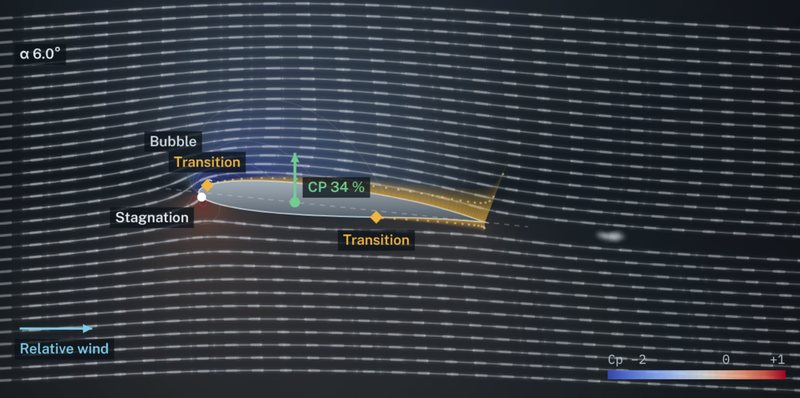
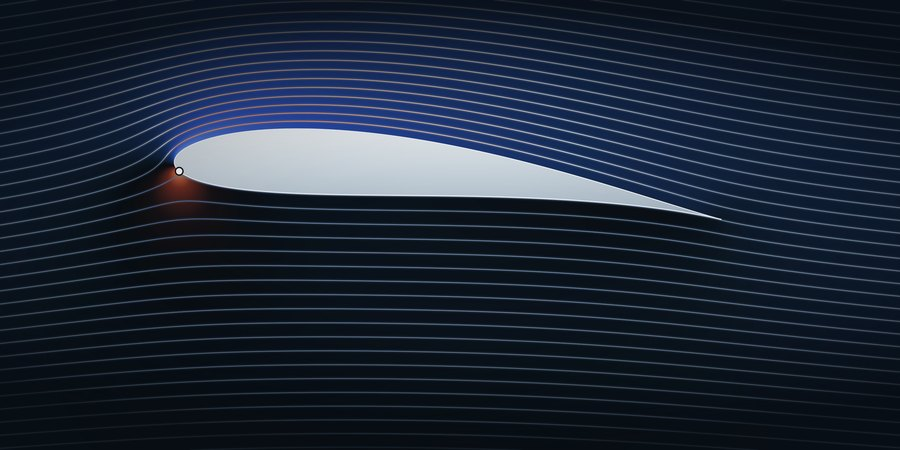
Home hero: high-resolution airfoil render (exact potential flow, RK4 streamlines, Cp field)
Claude-Session: https://claude.ai/code/session_01S9gHm57EQxZjGJ4cCC3jsu

diff --git a/index.html b/index.html
@@ -48,7 +48,7 @@
 .stage{margin:0;position:relative;min-width:0;aspect-ratio:640/680;padding:0}
 .stage::before{content:"";position:absolute;inset:-6% -8% -4% -6%;background:radial-gradient(60% 55% at 62% 40%,rgba(127,160,190,.22),transparent 70%),radial-gradient(40% 40% at 20% 70%,rgba(154,30,104,.07),transparent 70%);pointer-events:none;z-index:0}
 .stage .sc{position:absolute;display:block;border-radius:12px;overflow:hidden;text-decoration:none;color:inherit;box-shadow:0 30px 60px -18px rgba(19,32,42,.32),0 12px 24px -12px rgba(19,32,42,.18),0 0 0 1px rgba(19,32,42,.06);will-change:transform;transition:box-shadow .3s ease}
-.stage .sc-wt{right:0;top:0;width:94%;aspect-ratio:1490/742;background:#14191E;z-index:1}
+.stage .sc-wt{right:0;top:0;width:94%;aspect-ratio:2/1;background:#14191E;z-index:1}
 .stage .sc-wt img{display:block;width:100%;height:100%;object-fit:cover}
 .stage .sc-bp{left:0;top:40%;width:32%;aspect-ratio:236/334;z-index:2;background:#fff;border-radius:6px;rotate:-4deg}
 .stage .sc-bp svg{display:block;width:100%;height:100%}
@@ -265,8 +265,8 @@
     </div>
     <figure class="stage" id="stage">
       <a class="sc sc-wt pg" data-d="8" href="tunnel.html#sec2d" aria-label="Airfoil lab: smoke lines, pressure field and boundary layer at 6 degrees">
-        <img src="media/hero-airfoil.jpg" srcset="media/hero-airfoil-800.jpg 800w, media/hero-airfoil.jpg 1490w" sizes="(max-width:640px) 92vw, 600px" width="1490" height="742" alt="" decoding="async" fetchpriority="high">
-        <span class="sct"><b>Virtual Lab</b><span>Airfoil · α 6° · pressure field</span></span>
+        <img src="media/hero-airfoil.jpg?v=2" srcset="media/hero-airfoil-800.jpg?v=2 900w, media/hero-airfoil.jpg?v=2 2000w" sizes="(max-width:640px) 92vw, 600px" width="2000" height="1000" alt="" decoding="async" fetchpriority="high">
+        <span class="sct"><b>Virtual Lab</b><span>Airfoil · α 6° · potential flow</span></span>
       </a>
       <a class="sc sc-bp pg" data-d="14" href="prep.html" aria-label="Briefing pack: IFR, Oslo Gardermoen to Bergen Flesland">
         <svg viewBox="0 0 236 334" role="img" aria-label="Briefing pack cover: IFR, ENGM to ENBR, with its contents">
